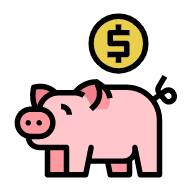
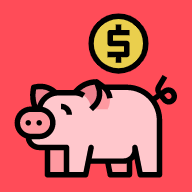
SideMenu and splash changes

diff --git a/src/components/SideMenu.tsx b/src/components/SideMenu.tsx
@@ -1,11 +1,15 @@
-import React, { useContext, Children } from "react";
+import React, { useContext } from "react";
 import { ImageBackground, StyleSheet } from "react-native";
-import { Divider, Drawer, DrawerItem, IndexPath } from "@ui-kitten/components";
 import {
-    NavigationHelpers,
-    DrawerNavigationState,
-} from "@react-navigation/native";
-import { DrawerNavigationEventMap } from "@react-navigation/drawer/lib/typescript/src/types";
+    Divider,
+    Drawer,
+    DrawerItem,
+    IndexPath,
+    useStyleSheet,
+    StyleService,
+    Layout,
+} from "@ui-kitten/components";
+import { DrawerNavigationState } from "@react-navigation/native";
 
 import {
     UsersIcon,
@@ -17,14 +21,16 @@ import {
 import { UserContext } from "../contexts";
 
 const Header = (props: any) => {
+    const styles = useStyleSheet(themeStyles);
+
     return (
-        <React.Fragment>
+        <Layout style={styles.container}>
             <ImageBackground
                 style={[props.style, styles.header]}
                 source={require("../assets/icon.png")}
             />
             <Divider />
-        </React.Fragment>
+        </Layout>
     );
 };
 
@@ -90,10 +96,14 @@ export const SideMenu = ({ navigation, state }: Props) => {
     );
 };
 
-const styles = StyleSheet.create({
+const themeStyles = StyleService.create({
+    container: {
+        backgroundColor: "color-primary-default",
+    },
     header: {
         height: 128,
+        width: 128,
         flexDirection: "row",
-        alignItems: "center",
+        alignSelf: "center",
     },
 });
